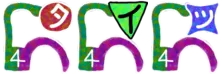
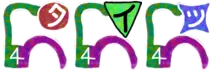
レベル追加

diff --git a/src/board.ts b/src/board.ts
@@ -6,19 +6,20 @@ type PNameType = "ta_1" | "i_1" | "tu_1" |
   "ta_4" | "i_4" | "tu_4" |
   "ta_5" | "i_5" | "tu_5" |
   "ta_6" | "i_6" | "tu_6" |
+  "ta_7" | "i_7" | "tu_7" |
   "tmax"
 
 const getLevel = (n: PNameType): integer => {
   const [_, level] = n.split("_")
   if (level === undefined) {
-    return 7
+    return 8
   }
   return parseInt(level, 10) - 1;
 }
 export class PName {
-  static ta_: PNameType[] = ["ta_1", "ta_2", "ta_3", "ta_4", "ta_5", "ta_6"]
-  static i_: PNameType[] = ["i_1", "i_2", "i_3", "i_4", "i_5", "i_6"]
-  static tu_: PNameType[] = ["tu_1", "tu_2", "tu_3", "tu_4", "tu_5", "tu_6"]
+  static ta_: PNameType[] = ["ta_1", "ta_2", "ta_3", "ta_4", "ta_5", "ta_6", "ta_7"]
+  static i_: PNameType[] = ["i_1", "i_2", "i_3", "i_4", "i_5", "i_6", "i_7"]
+  static tu_: PNameType[] = ["tu_1", "tu_2", "tu_3", "tu_4", "tu_5", "tu_6", "tu_7"]
   static pname(names: PNameType[], level: integer): PNameType {
     level = level >>> 0;
     if (Board.maxLevel <= level) { return "tmax" };
@@ -214,7 +215,7 @@ class ProducePhase extends Phase {
 }
 
 export class Board {
-  static get maxLevel(): integer { return 6 }
+  static get maxLevel(): integer { return 7 }
   // static get maxLevel(): integer { return 2 }
   get wh() { return { w: 6, h: 8 } };
   phase: Phase = new ProducePhase(this, 1)

diff --git a/src/gameMain.ts b/src/gameMain.ts
@@ -21,7 +21,7 @@ const stringize = (n: integer, r: integer = 0): integer[] => {
 }
 
 const TSizeMap = new Map<integer, integer>(
-  [[1, 59], [2, 64], [3, 69], [4, 74], [5, 79], [6, 85]])
+  [[1, 59], [2, 62], [3, 66], [4, 71], [5, 75], [6, 80], [7, 85]])
 
 export class GameMain extends BaseScene {
   board = new Board((Math.random() * (1 << 31)) | 0);

diff --git a/materials/p.rb b/materials/p.rb
@@ -1,4 +1,4 @@
-L=6
+L=7
 all=[]
 sizes=[]
 (1..L).each do |level|
